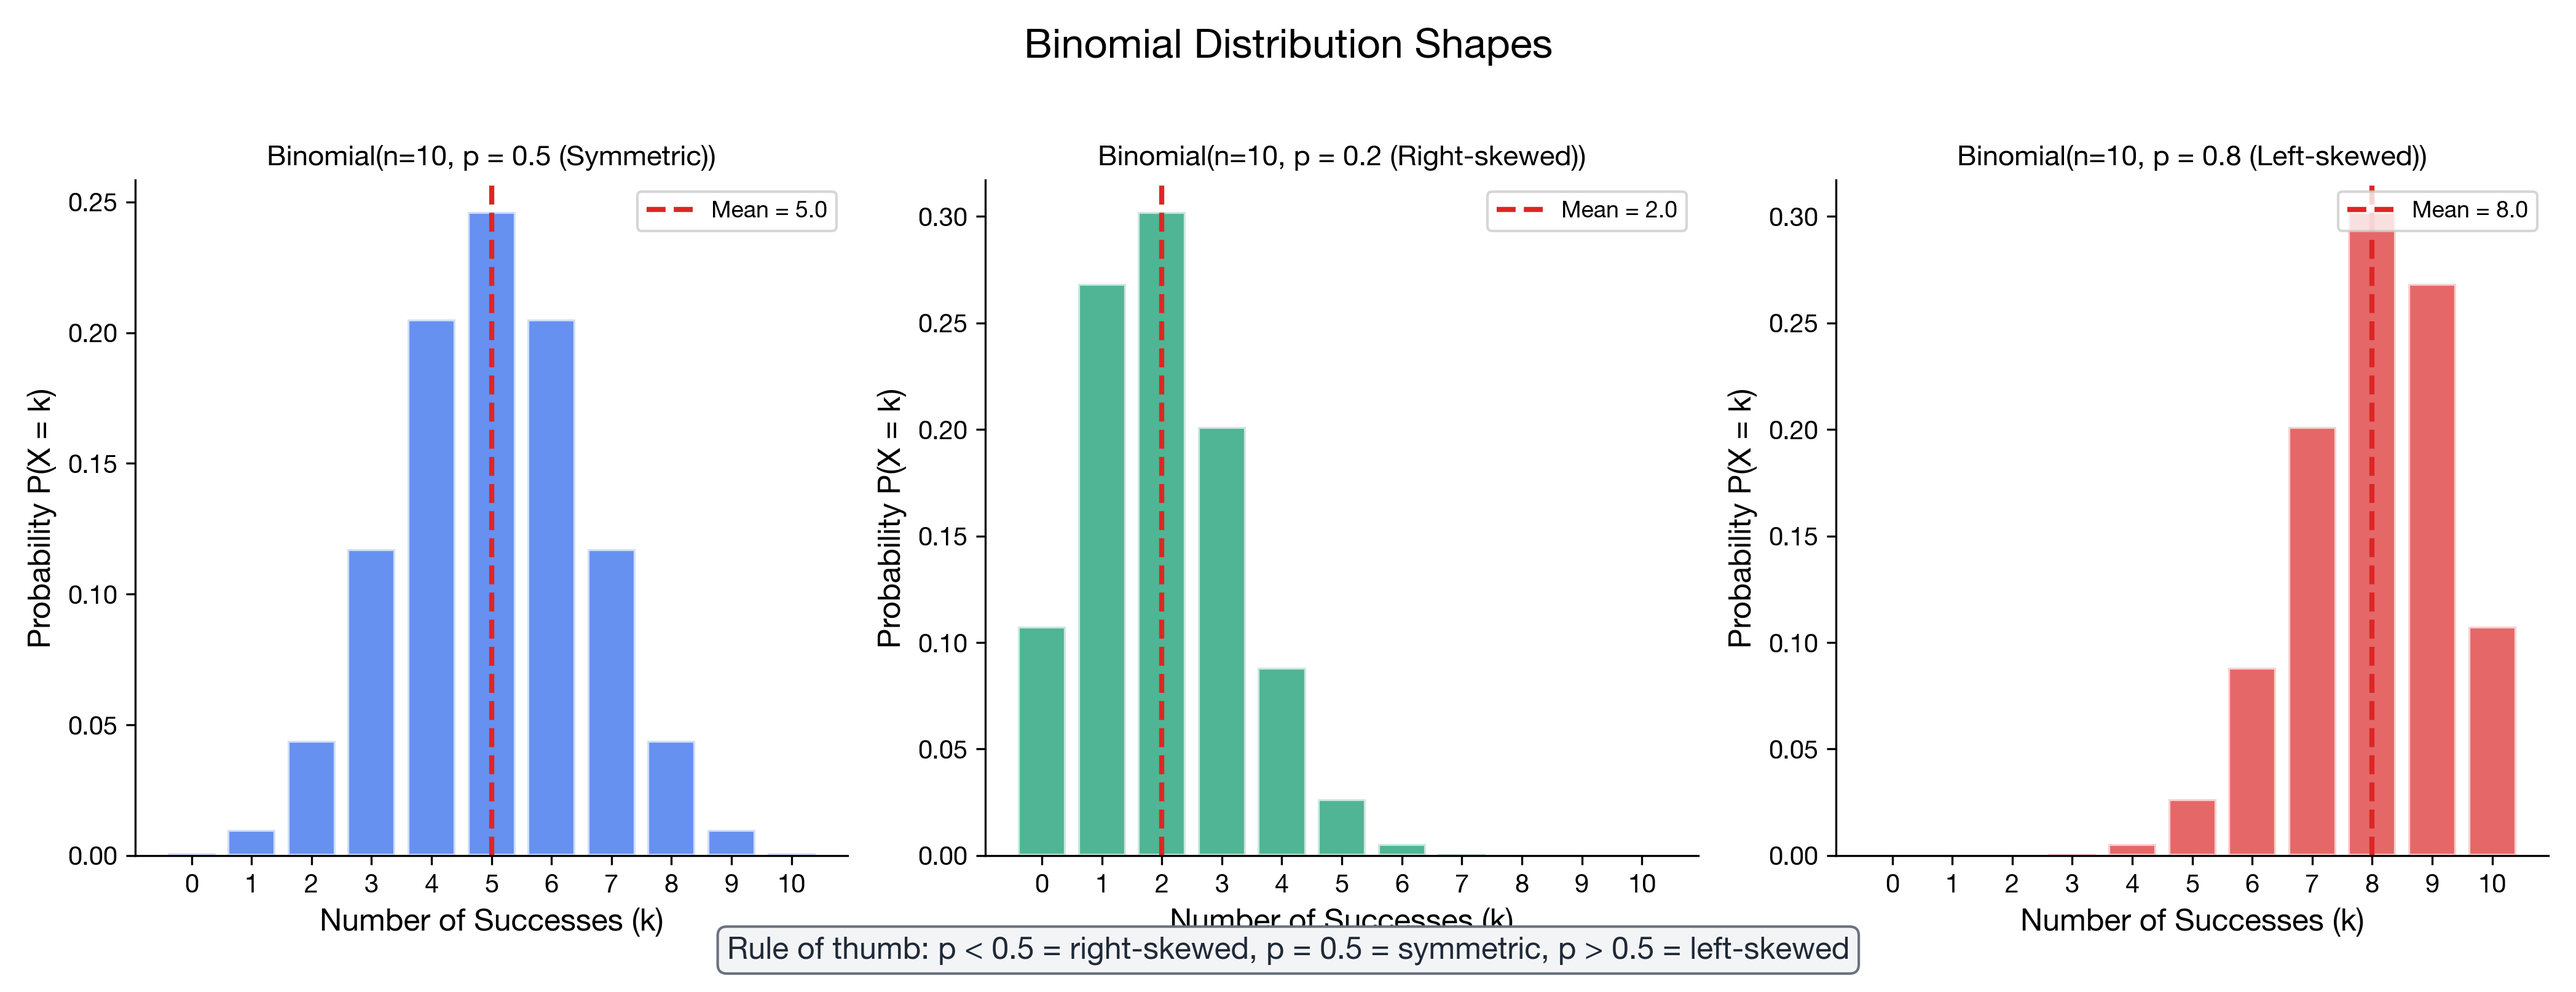
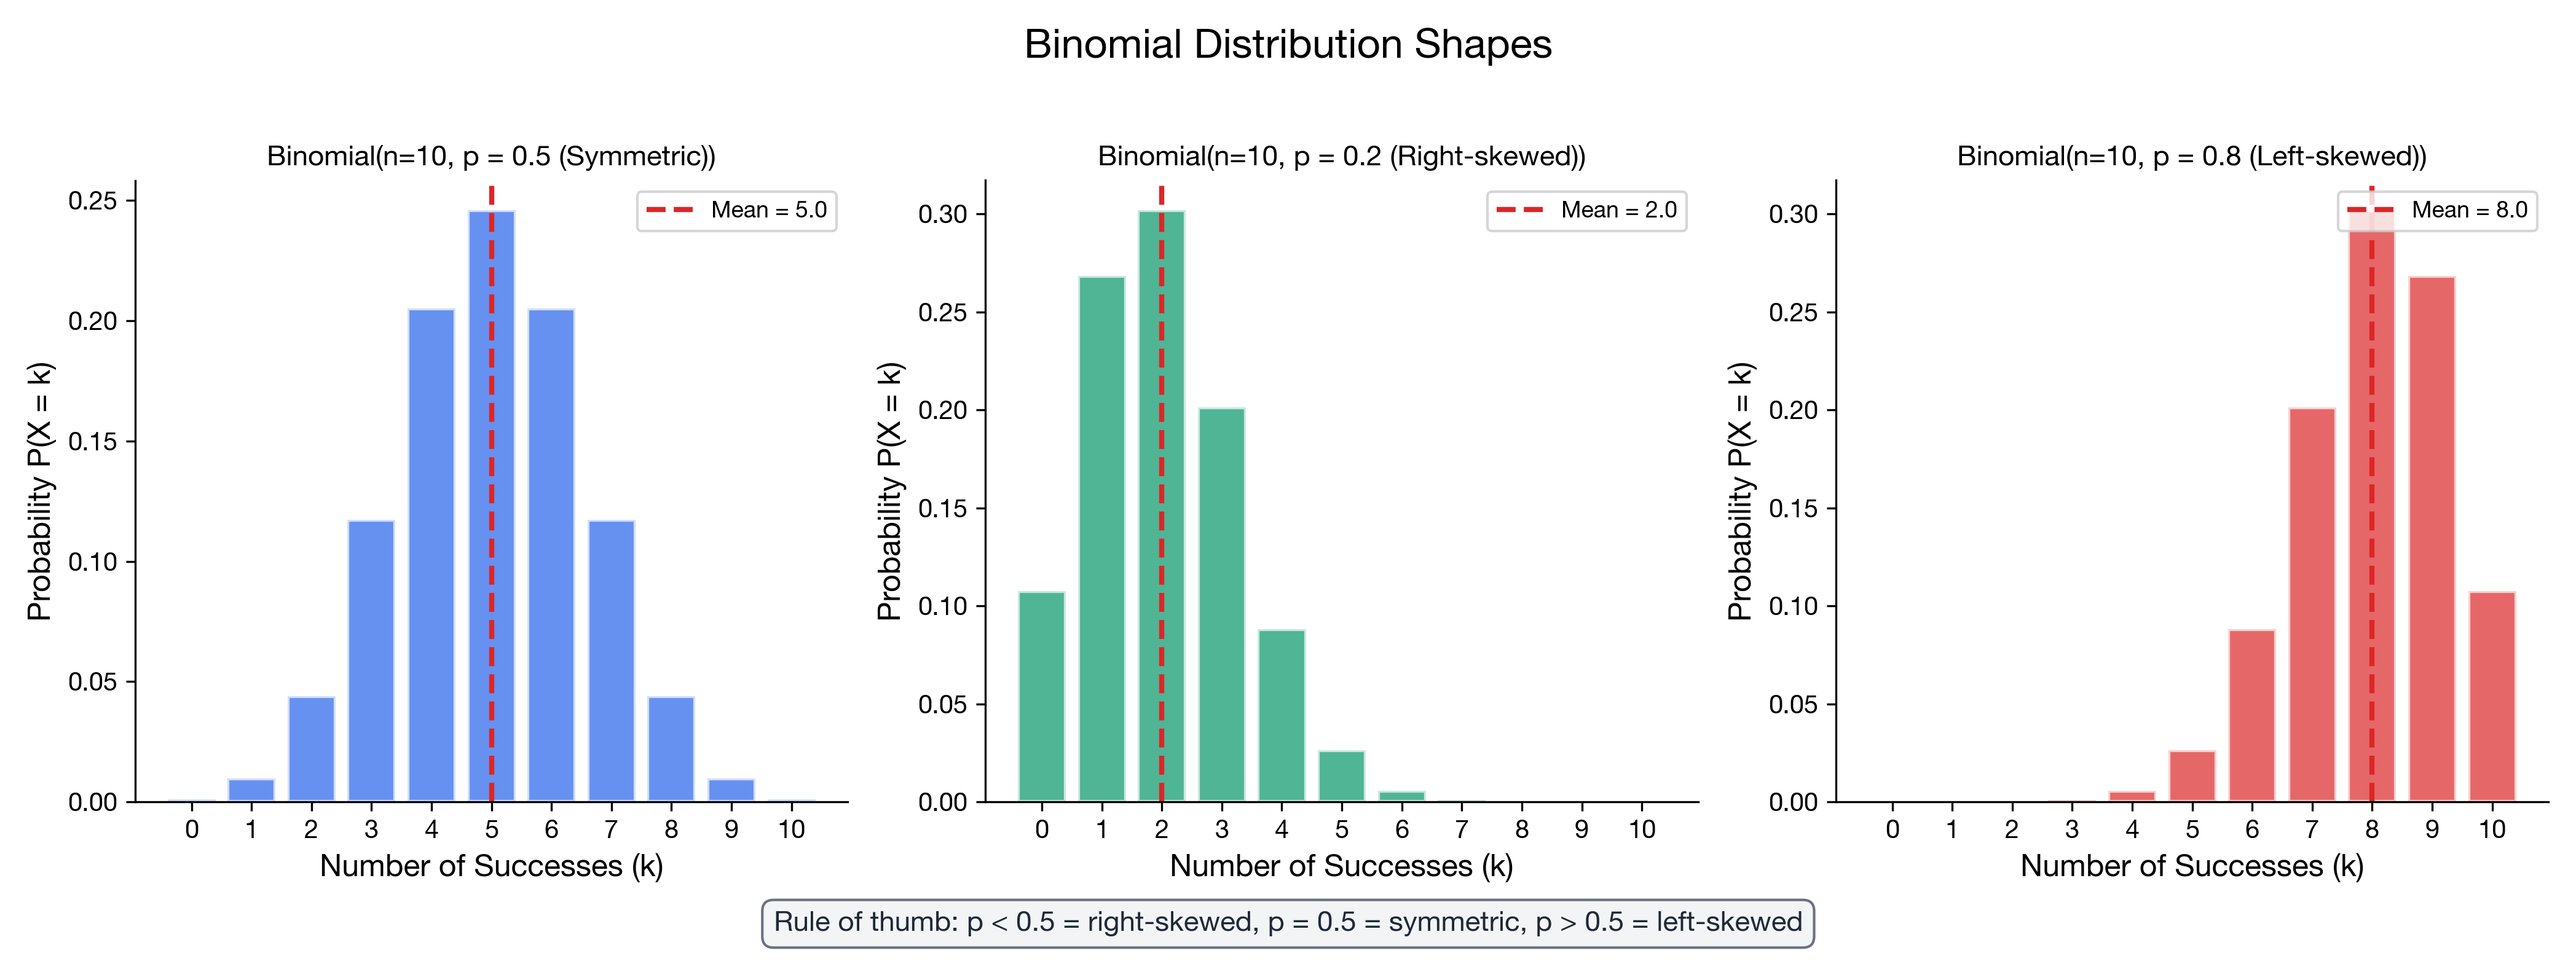
Fix binomial_shapes: add bottom padding for rule of thumb box

diff --git a/statistics/tools/generate_images.py b/statistics/tools/generate_images.py
@@ -979,10 +979,12 @@ def generate_binomial_shapes():
         ax.legend(loc='upper right', frameon=True, fontsize=9)
     
     fig.suptitle('Binomial Distribution Shapes', fontsize=16, fontweight='bold', y=1.02)
-    fig.text(0.5, 0.01, 'Rule of thumb: p < 0.5 = right-skewed, p = 0.5 = symmetric, p > 0.5 = left-skewed',
-             ha='center', fontsize=12, fontweight='bold', color=COLORS['dark'],
-             bbox=dict(boxstyle='round,pad=0.3', facecolor=COLORS['light'], edgecolor=COLORS['neutral']))
     plt.tight_layout()
+    # Add extra bottom margin for the rule of thumb box
+    plt.subplots_adjust(bottom=0.18)
+    fig.text(0.5, 0.04, 'Rule of thumb: p < 0.5 = right-skewed, p = 0.5 = symmetric, p > 0.5 = left-skewed',
+             ha='center', fontsize=11, fontweight='bold', color=COLORS['dark'],
+             bbox=dict(boxstyle='round,pad=0.4', facecolor=COLORS['light'], edgecolor=COLORS['neutral']))
     save_figure(fig, 'binomial_shapes.png')
 
 
